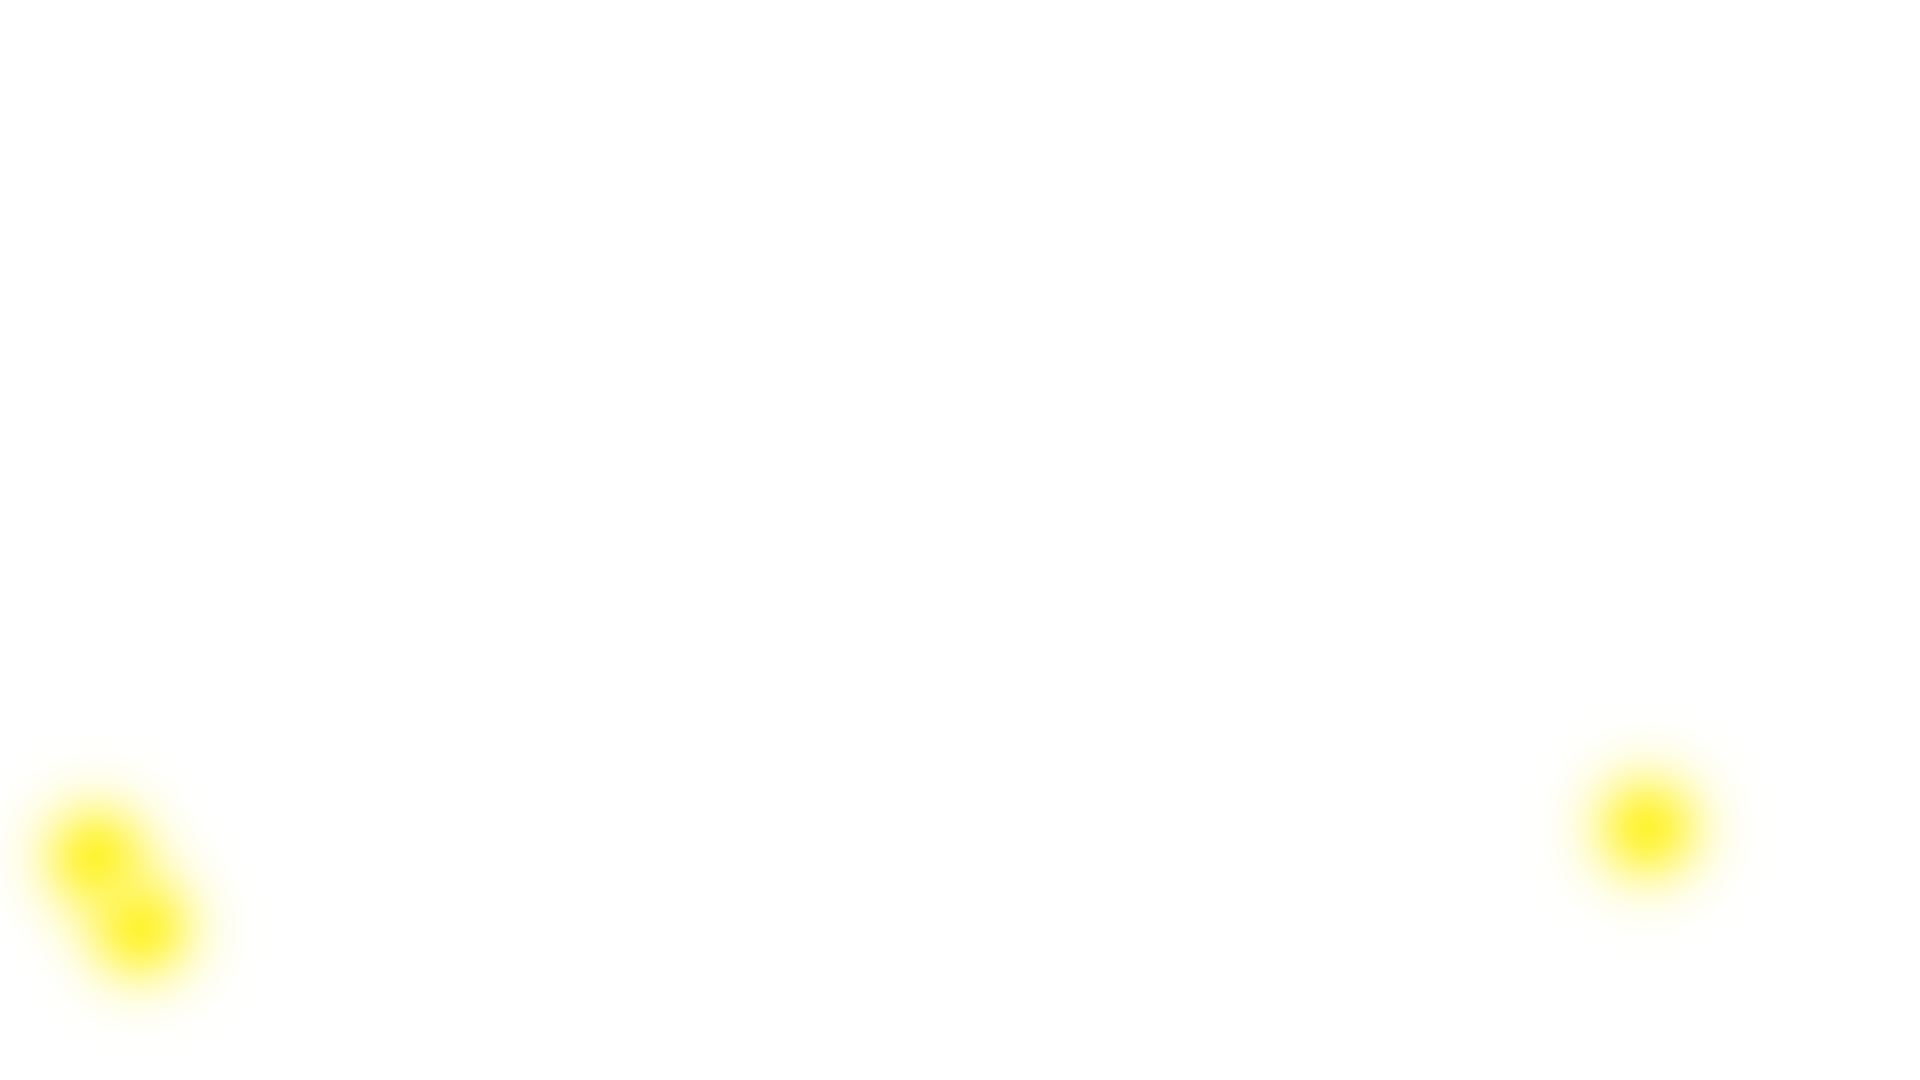
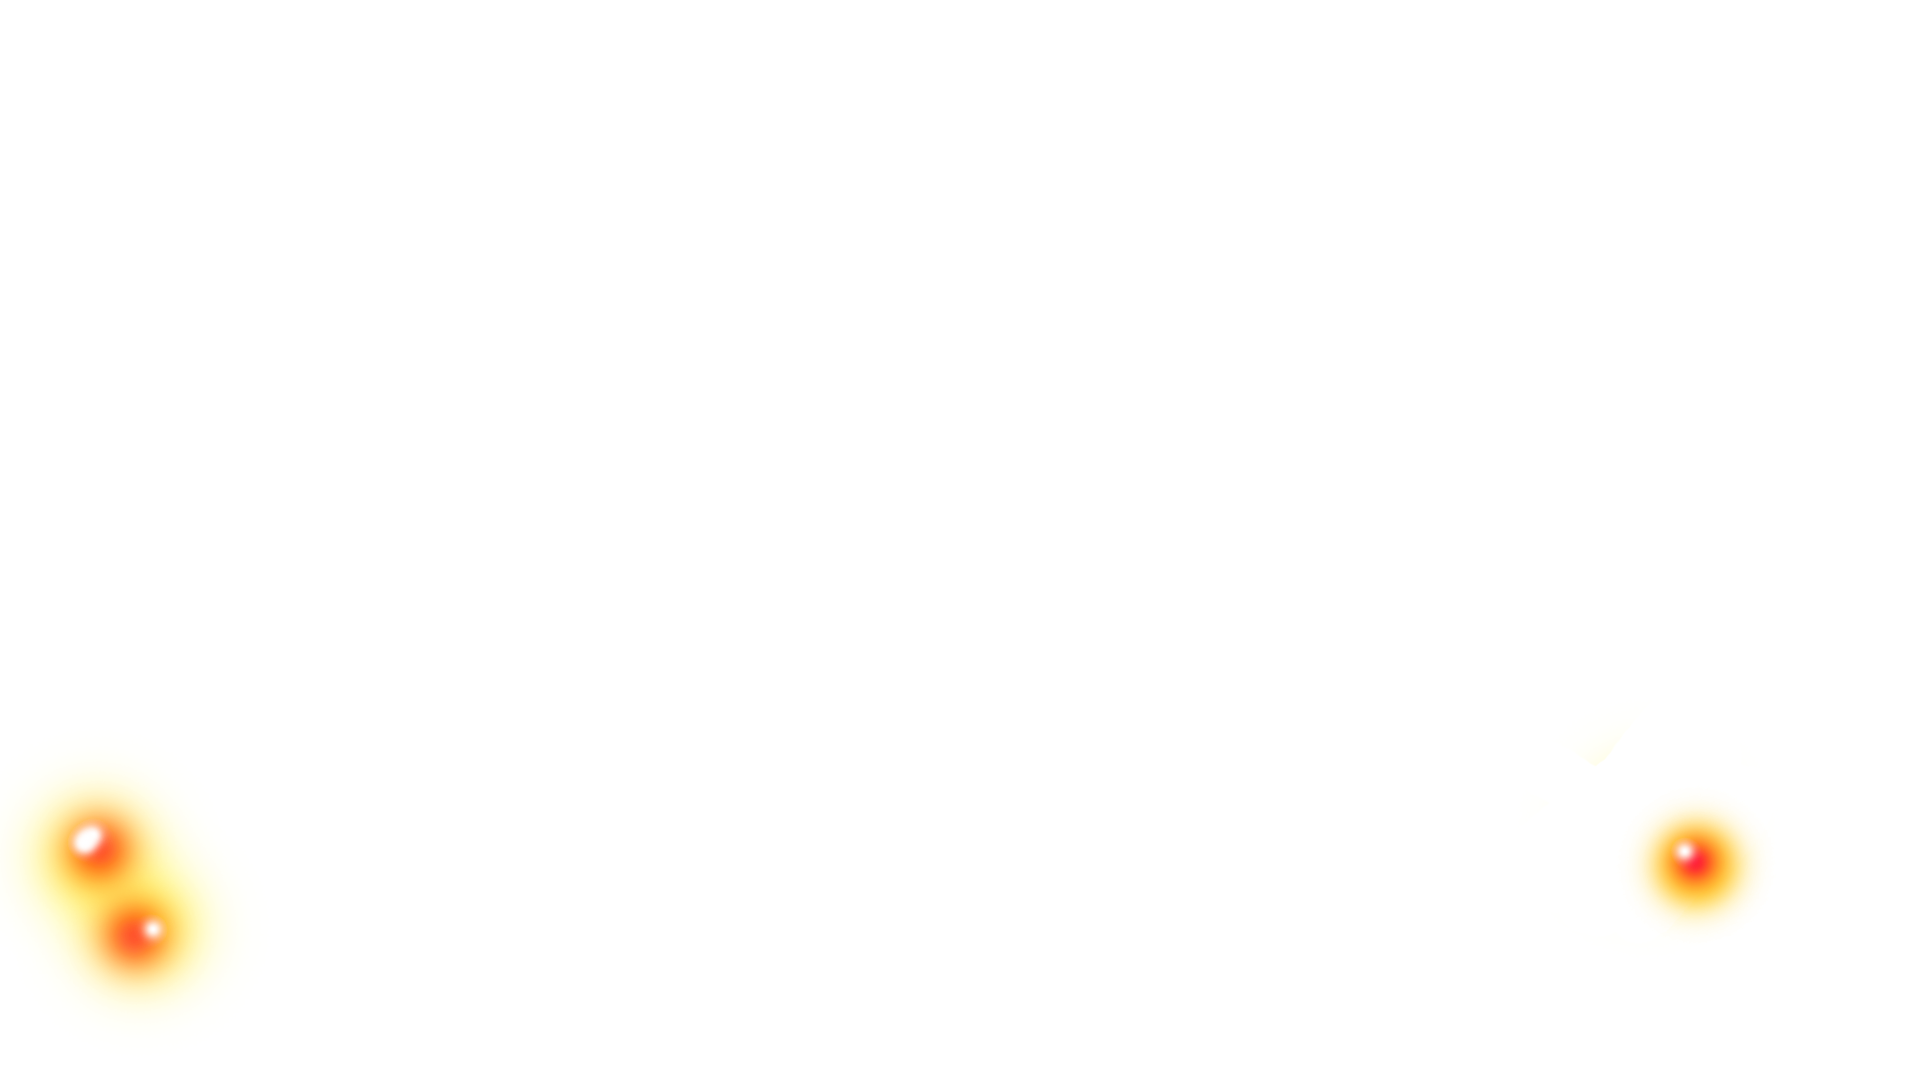
pantalla_inicio

Changed region(s): [[0.8125, 0.6722, 0.9375, 0.8556], [0.0312, 0.7333, 0.0938, 0.9167]]

diff --git a/Index.html b/Index.html
@@ -3,12 +3,209 @@
 <head>
     <meta charset="UTF-8">
     <meta name="viewport" content="width=device-width, initial-scale=1.0">
-    <title>Juego de Animales</title>
-    <link rel="stylesheet" href="./css/mainStyle.css">
+    <title>Jungle Mania</title>
+    <link rel="stylesheet" href="https://cdnjs.cloudflare.com/ajax/libs/animate.css/4.1.1/animate.min.css" />
+    <link rel="preconnect" href="https://fonts.googleapis.com">
+    <link rel="preconnect" href="https://fonts.gstatic.com" crossorigin>
+    <link href="https://fonts.googleapis.com/css2?family=Lilita+One&display=swap" rel="stylesheet">
 </head>
 
+<style>
+    body {
+        background-image: url(./media/BackGround.png);
+        background-repeat: no-repeat;
+        background-size: cover;
+        font-family: "Lilita One", sans-serif;
+        font-weight: 400;
+        font-style: normal;
+    }
+
+
+    .background .Lights img {
+        position: absolute;
+        top: 0;
+        left: 0;
+    }
+
+    .background .Lights #Light1 {
+        width: 100%;
+        margin-left: 2%;
+        animation: fallAnimation 5s infinite;
+    }
+
+    .background .Lights #Light3 {
+        width: 100%;
+        margin-left: 4%;
+        animation: fallAnimation 6s infinite;
+    }
+
+    @keyframes fallAnimation {
+        0% {
+            opacity: 1;
+            transform: translateY(0);
+        }
+
+        50% {
+            opacity: 0;
+            transform: translateY(10%);
+        }
+
+        100% {
+            opacity: 1;
+            transform: translateY(0);
+        }
+    }
+
+    @keyframes fadeAnimation {
+        0% {
+            opacity: 1;
+        }
+
+        50% {
+            opacity: 0;
+        }
+
+        100% {
+            opacity: 1;
+        }
+    }
+
+
+    .background .Lights #Light2 {
+        width: 100%;
+        margin-left: -2%;
+        animation: fadeAnimation 2s infinite;
+    }
+
+    .background #Title {
+
+        position: absolute;
+        top: 40%;
+        left: 50%;
+        transform: translate(-50%, -50%);
+        display: flex;
+        flex-direction: column;
+        align-items: center;
+        justify-content: center;
+
+    }
+    .background #Title #logo {
+        width: 120%;
+        z-index: 2;
+       
+    }
+    .background #Title #options {
+        position: absolute;
+        top: 80%;
+        left: 30%;
+        transform: translate(-50%, -50%);
+        z-index: 1;
+    }
+    #opt{
+        position: absolute;
+        display: flex;
+        flex-direction: column;
+        align-items: center;
+        justify-content: center;
+        top: 120%;
+        left: 50%;
+        transform: translate(-50%, -50%);
+        z-index: 3;
+    }
+
+    #opt a{
+        text-decoration: none;
+        color: transparent;
+        font-size: 400%;
+        
+    }
+    
+    #imageButton {
+      position: fixed;
+      top: 10px;
+      left: 0px;
+      cursor: pointer;
+      border: none;
+      background: none;
+      z-index: 1;
+    }
+
+    #imageButton img {
+        cursor: pointer;
+      width: 30%;
+      height: auto;
+      
+    }
+
+</style>
+
 <body>
+
+    <button id="imageButton" onclick="changeImage()">
+        <img id="buttonImage" src="./media/mute.png" alt="Botón">
+      </button>
+
+    <div class="background">
+
+       
+
+        <div class="Lights">
+            <img id="Light1" src="./media/LightPoints1.png" alt="">
+            <img id="Light2" src="./media/Light1.png" alt="">
+            <img id="Light3" src="./media/LightPoints2.png" alt="">
+
+        </div>
+
+        <div class="animate__animated animate__zoomIn animate__delay-1s " style="margin-top:20%; position: relative;">
+        <div id="Title"  >
+            <img id="logo"  class="animate__animated animate__bounce animate__delay-2s "  src="./media/Logo.png" alt="">
+            <img id="options"  class="animate__animated  animate__swing animate__delay-1s "  src="./media/OptionsDefaults.png" alt="">
+            <div id="opt">
+                <a href="..." onmouseover="opt(1)" onmouseout="resetOpt()" >Jugar</a>
+                <a href="..." onmouseover="opt(2)" onmouseout="resetOpt()" >Leaderboard</a>
+                <a href="..." onmouseover="opt(3)" onmouseout="resetOpt()" >About</a>
+
+                
+            </div>
+        </div>
+       </div>
+
+
+    </div>
+<script>
+opt = (n) => {
     
+    switch(n){
+        case 1:
+        document.getElementById('options').src = './media/Options1.png';
+            break;
+        case 2:
+        document.getElementById('options').src = './media/Options2.png';
+            break;
+        case 3:
+        document.getElementById('options').src = './media/Options3.png';
+            break;
+    }
+}
+
+resetOpt = () => {
+        document.getElementById('options').src = './media/OptionsDefaults.png';
+    }
+
+    var isImage1 = true;
+
+  function changeImage() {
+    var buttonImage = document.getElementById('buttonImage');
     
+    if (isImage1) {
+      buttonImage.src = './media/Unmute.png';
+    } else {
+      buttonImage.src = './media/mute.png'; 
+    }
+
+    isImage1 = !isImage1; 
+  }
+</script>
 </body>
+
 </html>
